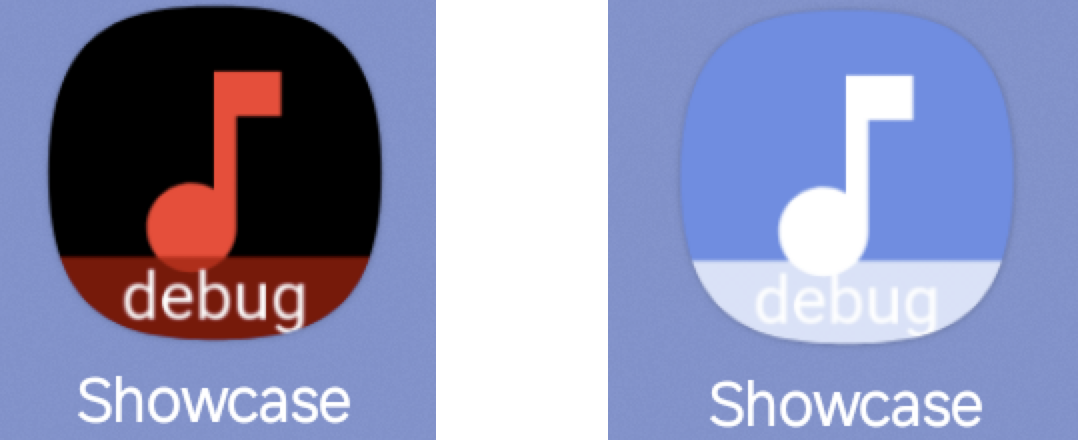
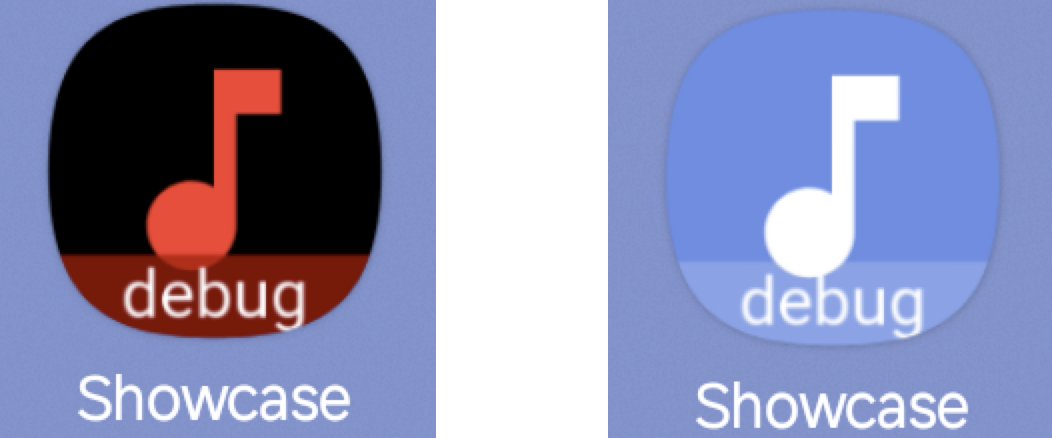
Update Settings implementation

diff --git a/feature/settings/src/main/kotlin/com/igorwojda/showcase/feature/settings/presentation/screen/settings/SettingsScreen.kt b/feature/settings/src/main/kotlin/com/igorwojda/showcase/feature/settings/presentation/screen/settings/SettingsScreen.kt
@@ -16,14 +16,11 @@ import androidx.compose.material3.ExperimentalMaterial3Api
 import androidx.compose.material3.Icon
 import androidx.compose.material3.ListItem
 import androidx.compose.material3.MaterialTheme
-import androidx.compose.material3.Scaffold
 import androidx.compose.material3.Text
-import androidx.compose.material3.TopAppBar
 import androidx.compose.runtime.Composable
 import androidx.compose.runtime.getValue
 import androidx.compose.ui.Modifier
 import androidx.compose.ui.res.stringResource
-import androidx.compose.ui.text.font.FontWeight
 import androidx.compose.ui.tooling.preview.Preview
 import androidx.compose.ui.unit.dp
 import androidx.lifecycle.compose.collectAsStateWithLifecycle
@@ -39,56 +36,34 @@ fun SettingsScreen(
     val viewModel: SettingsViewModel = koinViewModel()
     val uiState by viewModel.uiStateFlow.collectAsStateWithLifecycle()
 
-    Scaffold(
-        modifier = modifier,
-        topBar = {
-            TopAppBar(
-                title = { Text(stringResource(R.string.settings_title)) },
-            )
-        },
-    ) { paddingValues ->
-        Column(
-            modifier =
-                Modifier
-                    .fillMaxSize()
-                    .padding(paddingValues)
-                    .verticalScroll(rememberScrollState()),
-        ) {
-            when (uiState) {
-                SettingsUiState.Content -> SettingsContent(onNavigateToAboutLibraries)
-            }
+    Column(
+        modifier =
+            modifier
+                .fillMaxSize()
+                .verticalScroll(rememberScrollState()),
+    ) {
+        when (uiState) {
+            SettingsUiState.Content -> SettingsContent(onNavigateToAboutLibraries)
         }
     }
 }
 
 @Composable
-private fun SettingsContent(onAboutClick: () -> Unit) {
+private fun SettingsContent(onNavigateToAboutLibraries: () -> Unit) {
     Column(
         modifier = Modifier.padding(vertical = 8.dp),
     ) {
-        Text(
-            text = stringResource(R.string.settings_about),
-            style = MaterialTheme.typography.titleMedium,
-            fontWeight = FontWeight.Bold,
-            color = MaterialTheme.colorScheme.primary,
-            modifier = Modifier.padding(horizontal = 16.dp, vertical = 8.dp),
-        )
         Card(
             modifier =
                 Modifier
-                    .fillMaxWidth()
-                    .padding(horizontal = 16.dp),
+                    .fillMaxWidth(),
             colors =
                 CardDefaults.cardColors(
                     containerColor = MaterialTheme.colorScheme.surface,
                 ),
-            elevation =
-                CardDefaults.cardElevation(
-                    defaultElevation = 2.dp,
-                ),
         ) {
             SettingsItem(
-                title = stringResource(R.string.setings_open_source_licenses),
+                title = stringResource(R.string.settings_open_source_licenses),
                 subtitle = stringResource(R.string.settings_view_licenses_of_third_party_libraries),
                 icon = {
                     Icon(
@@ -97,7 +72,7 @@ private fun SettingsContent(onAboutClick: () -> Unit) {
                         tint = MaterialTheme.colorScheme.primary,
                     )
                 },
-                onClick = onAboutClick,
+                onClick = onNavigateToAboutLibraries,
             )
         }
     }
@@ -121,12 +96,6 @@ private fun SettingsItem(
             Text(
                 text = title,
                 style = MaterialTheme.typography.bodyLarge,
-                color =
-                    if (enabled) {
-                        MaterialTheme.colorScheme.onSurface
-                    } else {
-                        MaterialTheme.colorScheme.onSurface.copy(alpha = 0.5f)
-                    },
             )
         },
         supportingContent =
@@ -135,12 +104,6 @@ private fun SettingsItem(
                     Text(
                         text = it,
                         style = MaterialTheme.typography.bodyMedium,
-                        color =
-                            if (enabled) {
-                                MaterialTheme.colorScheme.onSurfaceVariant
-                            } else {
-                                MaterialTheme.colorScheme.onSurfaceVariant.copy(alpha = 0.5f)
-                            },
                     )
                 }
             },
@@ -164,6 +127,6 @@ private fun SettingsItem(
 @Composable
 private fun SettingsScreenPreview() {
     SettingsContent(
-        onAboutClick = { },
+        onNavigateToAboutLibraries = { },
     )
 }

diff --git a/feature/album/src/main/kotlin/com/igorwojda/showcase/feature/album/presentation/screen/albumlist/AlbumListScreen.kt b/feature/album/src/main/kotlin/com/igorwojda/showcase/feature/album/presentation/screen/albumlist/AlbumListScreen.kt
@@ -2,7 +2,6 @@ package com.igorwojda.showcase.feature.album.presentation.screen.albumlist
 
 import androidx.compose.foundation.layout.Box
 import androidx.compose.foundation.layout.Column
-import androidx.compose.foundation.layout.PaddingValues
 import androidx.compose.foundation.layout.fillMaxSize
 import androidx.compose.foundation.layout.padding
 import androidx.compose.foundation.layout.size
@@ -70,16 +69,23 @@ fun AlbumListScreen(
             when (val currentUiState = uiState) { // Extract to local variable for smart casting
                 AlbumListUiState.Error -> ErrorAnim()
                 AlbumListUiState.Loading -> LoadingIndicator()
-                is AlbumListUiState.Content ->
-                    AlbumGrid(
-                        albums = currentUiState.albums, // Use currentState instead of uiState
-                        onAlbumClick = { album ->
-                            onNavigateToAlbumDetail?.invoke(album.artist, album.name, album.mbId)
-                        },
-                    )
+                is AlbumListUiState.Content -> AlbumListContent(currentUiState, onNavigateToAlbumDetail)
             }
         }
     }
+}
+
+@Composable
+private fun AlbumListContent(
+    uiState: AlbumListUiState.Content,
+    onNavigateToAlbumDetail: ((String, String, String?) -> Unit)?,
+) {
+    AlbumGrid(
+        albums = uiState.albums,
+        onAlbumClick = { album ->
+            onNavigateToAlbumDetail?.invoke(album.artist, album.name, album.mbId)
+        },
+    )
 }
 
 @Composable
@@ -89,7 +95,6 @@ private fun AlbumGrid(
 ) {
     LazyVerticalGrid(
         columns = GridCells.Adaptive(Dimen.imageSize),
-        contentPadding = PaddingValues(Dimen.screenContentPadding),
     ) {
         items(items = albums, key = { it.id }) { album ->
             ElevatedCard(

diff --git a/feature/settings/src/main/kotlin/com/igorwojda/showcase/feature/settings/presentation/screen/aboutlibraries/AboutLibrariesScreen.kt b/feature/settings/src/main/kotlin/com/igorwojda/showcase/feature/settings/presentation/screen/aboutlibraries/AboutLibrariesScreen.kt
@@ -11,15 +11,37 @@ import androidx.compose.material3.Scaffold
 import androidx.compose.material3.Text
 import androidx.compose.material3.TopAppBar
 import androidx.compose.runtime.Composable
+import androidx.compose.runtime.getValue
 import androidx.compose.ui.Modifier
 import androidx.compose.ui.res.stringResource
 import androidx.compose.ui.tooling.preview.Preview
+import androidx.lifecycle.compose.collectAsStateWithLifecycle
 import com.igorwojda.showcase.feature.settings.R
 import com.mikepenz.aboutlibraries.ui.compose.m3.LibrariesContainer
+import org.koin.androidx.compose.koinViewModel
 
 @OptIn(ExperimentalMaterial3Api::class)
 @Composable
 fun AboutLibrariesScreen(
+    onBackClick: () -> Unit,
+    modifier: Modifier = Modifier,
+) {
+    val viewModel: AboutLibrariesViewModel = koinViewModel()
+    val uiState by viewModel.uiStateFlow.collectAsStateWithLifecycle()
+
+    when (uiState) {
+        is AboutLibrariesUiState.Content -> {
+            AboutLibrariesContent(
+                onBackClick = onBackClick,
+                modifier = modifier,
+            )
+        }
+    }
+}
+
+@OptIn(ExperimentalMaterial3Api::class)
+@Composable
+private fun AboutLibrariesContent(
     onBackClick: () -> Unit,
     modifier: Modifier = Modifier,
 ) {
@@ -51,7 +73,7 @@ fun AboutLibrariesScreen(
 @Preview
 @Composable
 private fun AboutLibrariesScreenPreview() {
-    AboutLibrariesScreen(
+    AboutLibrariesContent(
         onBackClick = { },
     )
 }

diff --git a/buildLogic/src/main/kotlin/com/igorwojda/showcase/buildlogic/ApplicationConventionPlugin.kt b/buildLogic/src/main/kotlin/com/igorwojda/showcase/buildlogic/ApplicationConventionPlugin.kt
@@ -7,7 +7,6 @@ import com.igorwojda.showcase.buildlogic.ext.excludeLicenseAndMetaFiles
 import com.igorwojda.showcase.buildlogic.ext.implementation
 import com.igorwojda.showcase.buildlogic.ext.libs
 import com.igorwojda.showcase.buildlogic.ext.versions
-import com.mikepenz.aboutlibraries.plugin.AboutLibrariesExtension
 import org.gradle.api.Plugin
 import org.gradle.api.Project
 import org.gradle.kotlin.dsl.configure
@@ -19,16 +18,12 @@ class ApplicationConventionPlugin : Plugin<Project> {
         with(target) {
             with(pluginManager) {
                 apply("com.android.application")
+                apply("com.google.devtools.ksp")
+                apply("org.jetbrains.kotlin.plugin.compose")
                 apply("com.igorwojda.showcase.convention.kotlin")
                 apply("com.igorwojda.showcase.convention.spotless")
                 apply("com.igorwojda.showcase.convention.easylauncher")
-                apply("com.google.devtools.ksp")
-                apply("org.jetbrains.kotlin.plugin.compose")
-                apply("com.mikepenz.aboutlibraries.plugin")
-            }
-
-            extensions.configure<AboutLibrariesExtension> {
-                registerAndroidTasks = true
+                apply("com.igorwojda.showcase.convention.aboutlibraries")
             }
 
             extensions.configure<ApplicationExtension> {

diff --git a/konsistTest/src/test/kotlin/com/igorwojda/showcase/konsisttest/ViewModelKonsistTest.kt b/konsistTest/src/test/kotlin/com/igorwojda/showcase/konsisttest/ViewModelKonsistTest.kt
@@ -4,11 +4,12 @@ import com.igorwojda.showcase.feature.base.presentation.viewmodel.BaseViewModel
 import com.lemonappdev.konsist.api.KoModifier
 import com.lemonappdev.konsist.api.Konsist
 import com.lemonappdev.konsist.api.ext.list.modifierprovider.withoutAllModifiers
+import com.lemonappdev.konsist.api.ext.list.withDeclarations
 import com.lemonappdev.konsist.api.ext.list.withNameEndingWith
 import com.lemonappdev.konsist.api.ext.list.withParentClassOf
 import com.lemonappdev.konsist.api.verify.assertTrue
-import org.junit.jupiter.api.Test
 import java.util.Locale
+import org.junit.jupiter.api.Test
 
 // Check test coding rules.
 class ViewModelKonsistTest {
@@ -18,7 +19,10 @@ class ViewModelKonsistTest {
             .scopeFromProduction()
             .classes()
             .withParentClassOf(BaseViewModel::class)
-            .assertTrue { it.hasTestClasses(testPropertyName = "cut") }
+            .withDeclarations() // Filter out empty view models
+            .assertTrue {
+                it.hasTestClasses(testPropertyName = "cut")
+            }
     }
 
     @Test

diff --git a/buildLogic/src/main/kotlin/com/igorwojda/showcase/buildlogic/AboutLibrariesConventionPlugin.kt b/buildLogic/src/main/kotlin/com/igorwojda/showcase/buildlogic/AboutLibrariesConventionPlugin.kt
@@ -1,0 +1,20 @@
+package com.igorwojda.showcase.buildlogic
+
+import com.mikepenz.aboutlibraries.plugin.AboutLibrariesExtension
+import org.gradle.api.Plugin
+import org.gradle.api.Project
+import org.gradle.kotlin.dsl.configure
+
+class AboutLibrariesConventionPlugin : Plugin<Project> {
+    override fun apply(target: Project) {
+        with(target) {
+            with(pluginManager) {
+                apply("com.mikepenz.aboutlibraries.plugin")
+            }
+
+            extensions.configure<AboutLibrariesExtension> {
+                android.registerAndroidTasks.set(true)
+            }
+        }
+    }
+}

diff --git a/feature/settings/src/main/kotlin/com/igorwojda/showcase/feature/settings/presentation/PresentationModule.kt b/feature/settings/src/main/kotlin/com/igorwojda/showcase/feature/settings/presentation/PresentationModule.kt
@@ -1,9 +1,12 @@
 package com.igorwojda.showcase.feature.settings.presentation
 
+import com.igorwojda.showcase.feature.settings.presentation.screen.aboutlibraries.AboutLibrariesViewModel
 import com.igorwojda.showcase.feature.settings.presentation.screen.settings.SettingsViewModel
 import org.koin.core.module.dsl.viewModelOf
 import org.koin.dsl.module
 
-internal val presentationModule = module {
-    viewModelOf(::SettingsViewModel)
-}
+internal val presentationModule =
+    module {
+        viewModelOf(::SettingsViewModel)
+        viewModelOf(::AboutLibrariesViewModel)
+    }

diff --git a/feature/settings/src/main/kotlin/com/igorwojda/showcase/feature/settings/presentation/screen/settings/SettingsAction.kt b/feature/settings/src/main/kotlin/com/igorwojda/showcase/feature/settings/presentation/screen/settings/SettingsAction.kt
@@ -2,8 +2,4 @@ package com.igorwojda.showcase.feature.settings.presentation.screen.settings
 
 import com.igorwojda.showcase.feature.base.presentation.viewmodel.BaseAction
 
-internal sealed class SettingsAction : BaseAction<SettingsUiState> {
-    data object ShowAboutLibraries : SettingsAction() {
-        override fun reduce(state: SettingsUiState) = state
-    }
-}
+internal sealed class SettingsAction : BaseAction<SettingsUiState>

diff --git a/feature/settings/src/main/kotlin/com/igorwojda/showcase/feature/settings/presentation/screen/aboutlibraries/AboutLibrariesUiState.kt b/feature/settings/src/main/kotlin/com/igorwojda/showcase/feature/settings/presentation/screen/aboutlibraries/AboutLibrariesUiState.kt
@@ -1,0 +1,10 @@
+package com.igorwojda.showcase.feature.settings.presentation.screen.aboutlibraries
+
+import androidx.compose.runtime.Immutable
+import com.igorwojda.showcase.feature.base.presentation.viewmodel.BaseState
+
+@Immutable
+internal sealed interface AboutLibrariesUiState : BaseState {
+    @Immutable
+    data object Content : AboutLibrariesUiState
+}

diff --git a/buildLogic/src/main/kotlin/com/igorwojda/showcase/buildlogic/EasyLauncherConventionPlugin.kt b/buildLogic/src/main/kotlin/com/igorwojda/showcase/buildlogic/EasyLauncherConventionPlugin.kt
@@ -33,7 +33,7 @@ class EasyLauncherConventionPlugin : Plugin<Project> {
     }
 
     companion object {
-        private const val OVERLAY_COLOR_BACKGROUND_DEBUG = "#BFAD0000"
+        private const val OVERLAY_COLOR_BACKGROUND_DEBUG = "#33AD0000"
         private const val OVERLAY_COLOR_TEXT = "#FFFFFF"
         private const val OVERLAY_HEIGHT = 0.25F
     }

diff --git a/konsistTest/src/test/kotlin/com/igorwojda/showcase/konsisttest/ModuleKonsistTest.kt b/konsistTest/src/test/kotlin/com/igorwojda/showcase/konsisttest/ModuleKonsistTest.kt
@@ -12,7 +12,6 @@ class ModuleKonsistTest {
             .scopeFromProject()
             .files
             .assertTrue {
-                // com.igorwojda.showcase.feature.album.presentation.screen.albumdetail
                 val modulePackageName =
                     it.moduleName
                         .lowercase()

diff --git a/feature/settings/src/main/kotlin/com/igorwojda/showcase/feature/settings/presentation/screen/aboutlibraries/AboutLibrariesViewModel.kt b/feature/settings/src/main/kotlin/com/igorwojda/showcase/feature/settings/presentation/screen/aboutlibraries/AboutLibrariesViewModel.kt
@@ -1,0 +1,5 @@
+package com.igorwojda.showcase.feature.settings.presentation.screen.aboutlibraries
+
+import com.igorwojda.showcase.feature.base.presentation.viewmodel.BaseViewModel
+
+internal class AboutLibrariesViewModel : BaseViewModel<AboutLibrariesUiState, AboutLibrariesAction>(AboutLibrariesUiState.Content)
